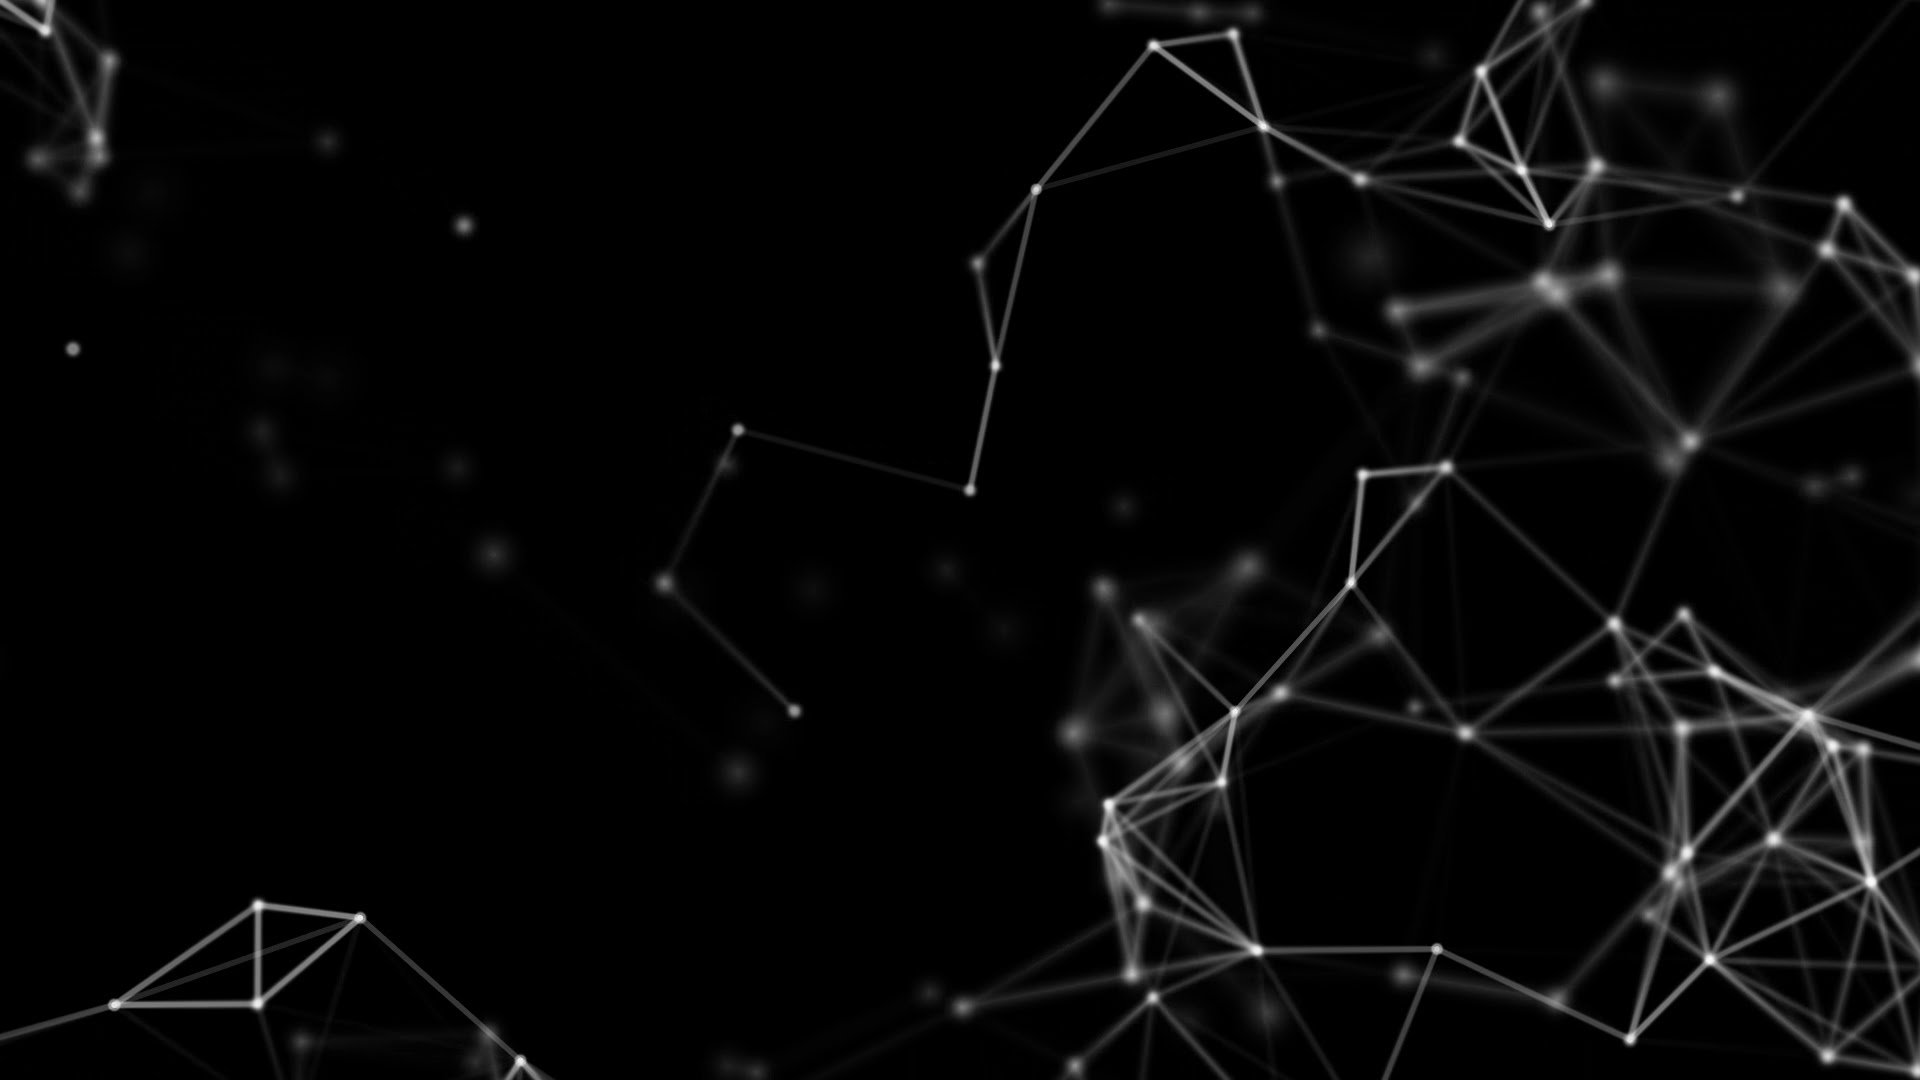
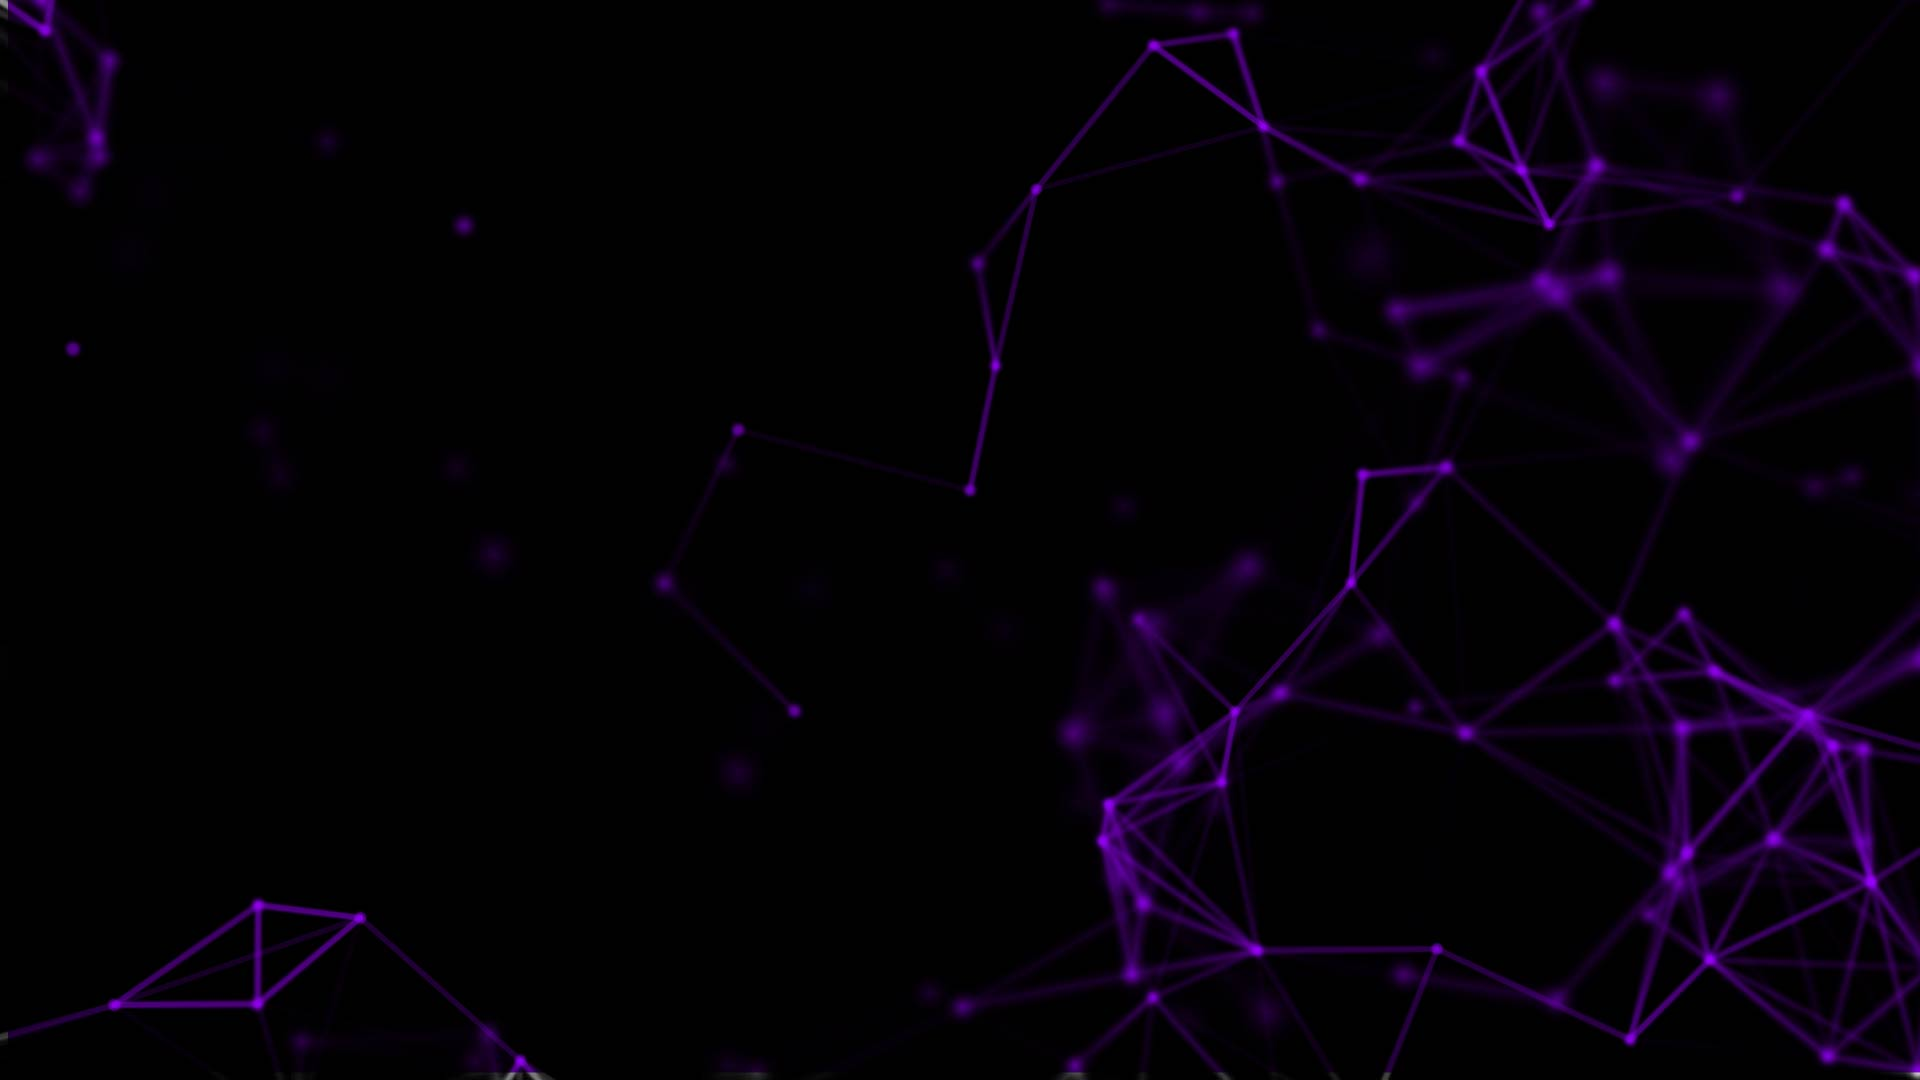
Update

diff --git a/pages/api/blog/[post].js b/pages/api/blog/[post].js
@@ -1,6 +1,6 @@
-import fs from 'fs'
-import path from 'path'
-
+import readdir from '../../../lib/readdir'
+import fs from "fs";
+import path from "path";
 
 export default async function getPostById(req, res) {
 
@@ -8,27 +8,23 @@ export default async function getPostById(req, res) {
         query: {post, name},
         method,
     } = req
-    res.setHeader('Content-Type', 'application/json')
 
-    const postL = await getPost(post)
+    fs.readFile(path.join(process.cwd(), 'pages/api/blog/endpoint/posts.json'), 'utf8', (err, data) => {
 
-    res.json(JSON.stringify({postL}))
+        let format = JSON.parse(data)
 
-
-}
-
-const getPost = (id) => {
-    return new Promise((resolve => {
-        fs.readFile(path.join(process.cwd(), `pages/api/blog/endpoint/posts.json`), 'utf8',  (err,data) => {
-            if (err) {
-                return console.log(err)
-            }
-            let dataFormated = JSON.parse(data)
-
-            let result = dataFormated.filter((obj) => {
-                 return obj.url == id
-            })
-            resolve(result)
+        let filter = format.filter((result) => {
+            return result.url === post
         })
-    }))
+
+        res.setHeader('Content-Type', 'application/json')
+
+        res.json(JSON.stringify({postL: filter}))
+
+    })
+
+
+
+
 }
+

diff --git a/component/meta.js b/component/meta.js
@@ -1,20 +1,30 @@
-import Head from 'next/head'
+import NextHead from 'next/head'
 import {APP_TITLE} from "../lib/settings";
 
-export default function Meta({title, page_desc}) {
+export default function Meta({title, page_desc, html_url}) {
 
     return (
-        <Head>
+        <NextHead>
             <meta charSet="UTF-8"/>
             <meta name="viewport" content="width=device-width, initial-scale=1"/>
             <title>{title} | {APP_TITLE}</title>
+            <meta name="title" content={APP_TITLE}/>
+
             <meta name="theme-color" content="#000" />
             <script src="https://kit.fontawesome.com/8988a86ddd.js" crossOrigin="anonymous"/>
             <meta
-                name={page_desc}
+                name={`description`}
                 content={page_desc}
             />
-        </Head>
+
+            {/*  FACEBOOK TAGS   */}
+            <meta property="og:type" content="website"/>
+            <meta property="og:url" content={`https://thiagorsouza.xyz/${html_url}`}/>
+            <meta property="og:title" content={`${title} | ${APP_TITLE}`}/>
+            <meta property="og:description" content={page_desc}/>
+            <meta property="og:image" content={`https://i.imgur.com/D0DdO1r.jpg`}/>
+
+        </NextHead>
     )
 
 

diff --git a/pages/blog/[id].js b/pages/blog/[id].js
@@ -1,8 +1,8 @@
 import {useRouter} from 'next/router'
 import useSwr from 'swr'
-import Meta from "../../component/meta";
-import styles from "../../styles/Home.module.css";
 import MoblieNav from "../../component/navbar/MoblieNav";
+import Layout from "../../component/blog/layout";
+import ContentPostBody from "../../component/blog/content-post-body";
 
 const fetcher = (url) => fetch(url).then((res) => res.json())
 
@@ -14,14 +14,16 @@ export default function postById() {
     if (!data) return <div>Loading...</div>
     return (
         <>
-            <Meta title={`Home`}/>
-            <div className={styles.main}>
+            {data.postL.map((result) => (
+                <Layout title={result.title} page_desc={result.preview} html_url={`blog/${result.url}`}>
+                    <ContentPostBody
+                        title={result.title}
+                        img={result.img_url}
+                        content={result.content}
+                    />
+                </Layout>
+            ))}
 
-                {data.postL.map((result) => (
-                    <p>{result.title}</p>
-                ))}
-
-            </div>
             <MoblieNav/>
         </>
     )

diff --git a/styles/Home.module.css b/styles/Home.module.css
@@ -29,10 +29,10 @@ li.navbarLink {
 }
 
 .gBtn {
-    background: white;
+    background: #9900ff;
     padding: 10px 15px;
     border-radius: 5px;
-    color: black;
+    color: white;
     font-family: 'Gotham Bold', sans-serif;
     font-size: 18px;
     border: 0;
@@ -77,6 +77,19 @@ li.navbarLink a.active {
     padding-right: 150px;
 }
 
+.mainP {
+    padding-top: 50px;
+    padding-left: 50px;
+    padding-right: 50px;
+}
+
+.mainP > .title {
+    color: white;
+    text-align: center;
+    font-family: 'Gotham Bold', sans-serif;
+    font-size: 50px;
+}
+
 .desc {
     display: flex;
     justify-content: space-between;
@@ -99,7 +112,7 @@ li.navbarLink a.active {
 
 
 .box {
-    background: white;
+    background: #1a1a1a;
     width: 100%;
     position: inherit;
     border-radius: 3px;
@@ -109,6 +122,7 @@ li.navbarLink a.active {
     font-family: 'CircularStd', sans-serif;
     margin-left: auto;
     margin-right: auto;
+    color: white;
 }
 
 .kdodf {
@@ -116,6 +130,7 @@ li.navbarLink a.active {
     justify-content: space-between;
     padding-left: 100px;
     padding-right: 100px;
+    color: white;
 }
 
 .kdodf > .kfdff {

diff --git a/pages/api/blog/getAllPost.js b/pages/api/blog/getAllPost.js
@@ -1,19 +1,17 @@
-import fs from 'fs'
-import path from 'path'
+import readdir from '../../../lib/readdir'
+import fs from "fs";
+import path from "path";
 
+export default async function handler(req, res) {
 
-export default function handler(req, res) {
     res.setHeader('Content-Type', 'application/json')
 
-
-
-    fs.readFile(path.join(process.cwd(), `pages/api/blog/endpoint/posts.json`), 'utf8',  (err,data) => {
-        if (err) {
-            return console.log(err)
-        }
+    fs.readFile(path.join(process.cwd(), 'pages/api/blog/endpoint/posts.json'), 'utf8', (err, data) => {
 
         let format = JSON.parse(data)
+
         res.end(JSON.stringify({res: format}))
 
     })
+
 }

diff --git a/pages/index.js b/pages/index.js
@@ -7,7 +7,7 @@ import MoblieNav from "../component/navbar/MoblieNav";
 export default function Home() {
     return (
         <>
-            <Meta title={`Home`}/>
+            <Meta title={`Home`} page_desc={`Thiago Rodrigues welcome to my portfolio here you will know my projects is a little about me`}/>
             <Navbar/>
             <div className={styles.header}>
                 <div className={styles.main}>
@@ -35,6 +35,7 @@ export default function Home() {
                             </div>
                         </section>
                     </div>
+                    <p>Oi</p>
                 </div>
             </div>
             <MoblieNav/>

diff --git a/component/blog/layout.js b/component/blog/layout.js
@@ -1,0 +1,22 @@
+import styles from '../../styles/Home.module.css'
+import Meta from "../meta";
+import Navbar from "../navbar/Navbar";
+
+export default function Layout({children, title, page_desc, html_url}) {
+    return (
+        <>
+            <Meta
+                title={title}
+                page_desc={page_desc}
+                html_url={html_url}
+            />
+            <Navbar/>
+            <div className={styles.header}>
+                <div className={styles.mainP}>
+                    <p className={styles.title}>{title}</p>
+                    {children}
+                </div>
+            </div>
+        </>
+    )
+}

diff --git a/pages/blog/index.js b/pages/blog/index.js
@@ -1,15 +1,13 @@
-import Meta from "../../component/meta";
 import Posts from "../../component/blog/posts";
-import Navbar from "../../component/navbar/Navbar";
 import MoblieNav from "../../component/navbar/MoblieNav";
+import Layout from "../../component/blog/layout";
 
 export default function Home() {
     return (
         <>
-            <Meta title={`Home`}/>
-
-            <Navbar/>
-            <Posts/>
+            <Layout title={`Blog`} page_desc={`Read about what technologies I use and the challenges I face`}>
+                <Posts/>
+            </Layout>
             <MoblieNav/>
         </>
     )

diff --git a/component/blog/main-post-body.js b/component/blog/main-post-body.js
@@ -19,7 +19,7 @@ export default function MainPostBody({title, url, img, preview}) {
                     <p>{preview}</p>
                 </div>
                 <a onClick={() => router.push(`blog/${url}`)}>
-                    <button className={styles.btns}>Continue Reading</button>
+                    <button className={styles.gBtn}>Continue Reading</button>
                 </a>
             </div>
         </div>

diff --git a/component/blog/content-post-body.js b/component/blog/content-post-body.js
@@ -1,0 +1,14 @@
+import styles from '../../styles/Home.module.css'
+import {AUTHOR} from "../../lib/settings";
+
+export default function ContentPostBody({title, img, content}) {
+    return (
+        <div className={styles.box}>
+            <img src={img}
+                 width={`100%`}
+                 alt={AUTHOR}
+            />
+            <p>{content}</p>
+        </div>
+    )
+}

diff --git a/lib/readdir.js b/lib/readdir.js
@@ -1,0 +1,12 @@
+import fs from 'fs'
+import path from 'path'
+
+export default function readdir(file) {
+
+    return new Promise((resolve) => {
+        fs.readFile(path.join(process.cwd(), file), 'utf8', (err, data) => {
+            let format = JSON.parse(data)
+            resolve(format)
+        })
+    })
+}

diff --git a/styles/globals.css b/styles/globals.css
@@ -2,7 +2,7 @@ html,
 body {
   padding: 0;
   margin: 0;
-
+  background: black;
 }
 
 a {
